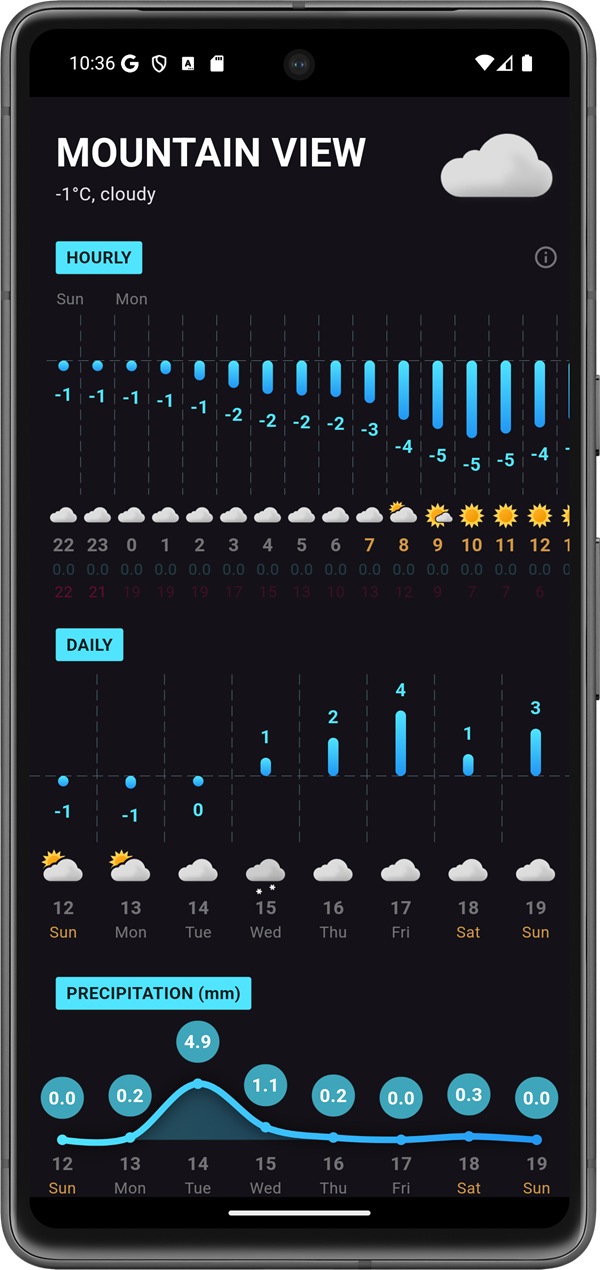
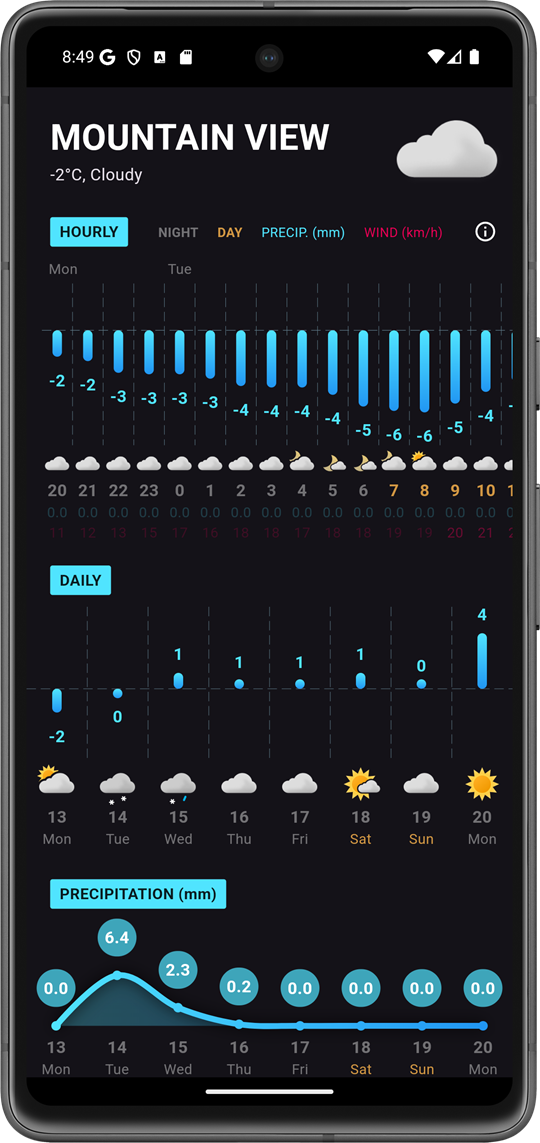
added mapping for description and fixes for info button

diff --git a/lib/services/weather_service.dart b/lib/services/weather_service.dart
@@ -30,18 +30,18 @@ class WeatherService {
     //       'User-Agent': 'WeatherApp/1.0 https://github.com/pioterl/weatherapp'
     //     }); // Norylsk
 
-    final http.Response response = await http.get(
-        Uri.parse(
-            'https://api.met.no/weatherapi/locationforecast/2.0/compact?lat=51.759445&lon=19.457216'),
-        headers: {
-          'User-Agent': 'WeatherApp/1.0 https://github.com/pioterl/weatherapp'
-        }); // LDZ
-
     // final http.Response response = await http.get(
-    //     Uri.parse('$BASE_URL?lat=${positions[1]}&lon=${positions[2]}'),
+    //     Uri.parse(
+    //         'https://api.met.no/weatherapi/locationforecast/2.0/compact?lat=51.759445&lon=19.457216'),
     //     headers: {
     //       'User-Agent': 'WeatherApp/1.0 https://github.com/pioterl/weatherapp'
-    //     });
+    //     }); // LDZ
+
+    final http.Response response = await http.get(
+        Uri.parse('$BASE_URL?lat=${positions[1]}&lon=${positions[2]}'),
+        headers: {
+          'User-Agent': 'WeatherApp/1.0 https://github.com/pioterl/weatherapp'
+        });
 
     if (response.statusCode == 200) {
       Weather weather =

diff --git a/README.md b/README.md
@@ -2,4 +2,4 @@
 
 Simple weather app written to learn Flutter. Code is a mess, but it works! Of course i will refactor it someday... :)
 
-![WeatherApp](Screenshot.png)
+![WeatherApp](Screenshot.png) ![WeatherApp](Screenshot2.png)
